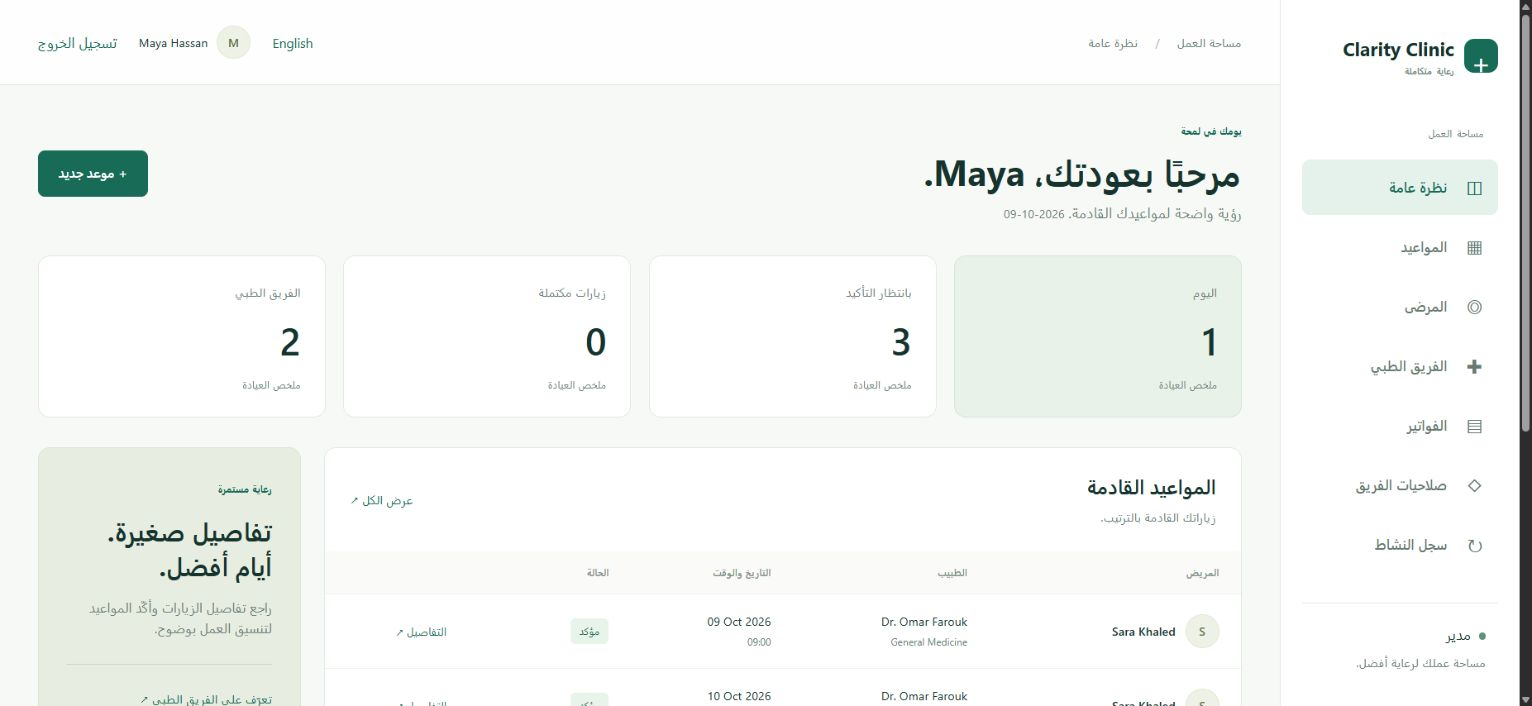
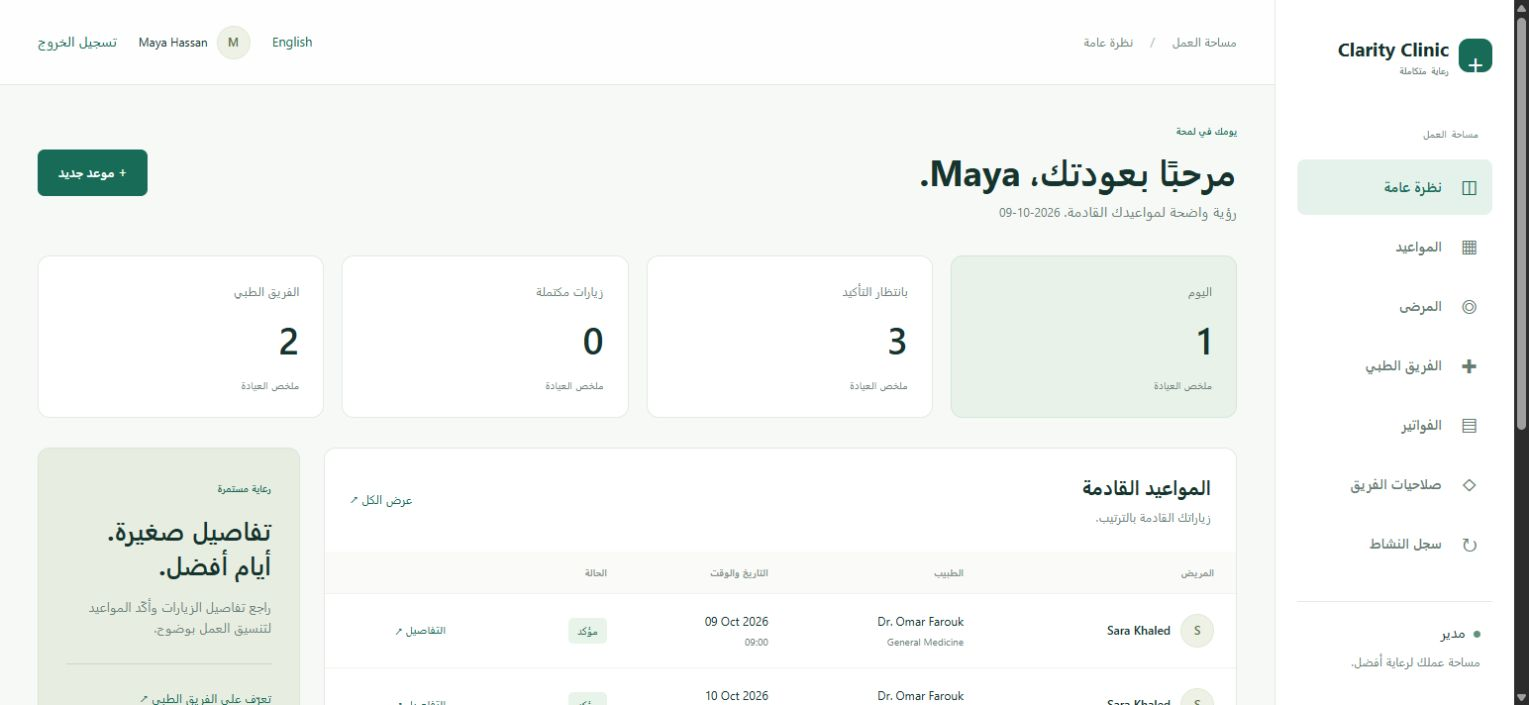
Document real local runs with screenshot gallery

diff --git a/README.md b/README.md
@@ -7,11 +7,15 @@ This release replaces the original separate dashboards with a shared workspace g
 
 ## Workspace preview
 
-Screenshots use fictional local demo data.
+Captured from a local run of this application using fictional demo appointments.
 
 ![English clinic dashboard](docs/images/dashboard-en.png)
 
 ![Arabic clinic dashboard with RTL navigation](docs/images/dashboard-ar.png)
+
+### Billing workspace
+
+![Billing workspace with fictional consultation invoices](docs/images/billing.png)
 
 ## What works
 

diff --git a/docs/SCREENSHOTS.md b/docs/SCREENSHOTS.md
@@ -1,0 +1,13 @@
+# Screenshot provenance
+
+- Captured: 2026-10-09.
+- Source revision: `e4d9c3be97353c836c5a141072caade99a31d664`.
+- Environment: local development run on Windows.
+- Data: built-in sample content or fictional demo records only.
+- Method: browser screenshots of the running application; no generated UI mockups.
+
+## Captures
+
+- [billing.png](images/billing.png)
+- [dashboard-ar.png](images/dashboard-ar.png)
+- [dashboard-en.png](images/dashboard-en.png)
